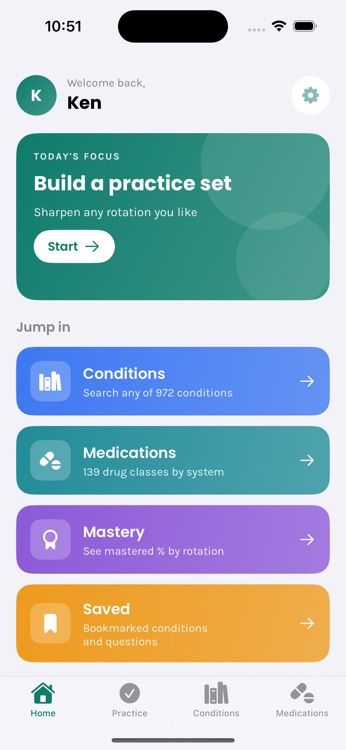
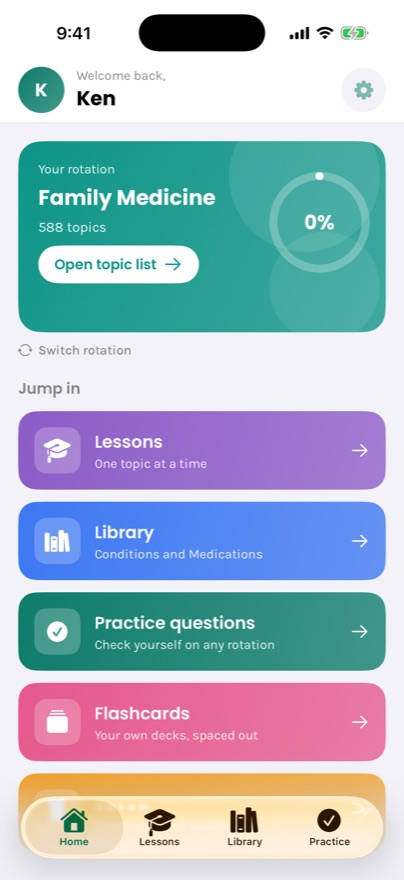
Add real app screenshots to the home page
Five screens captured from build 7 in the iPhone 17 Pro simulator, which is what
gives the clean 9:41 status bar with no carrier name, real battery level or
notification badges. Four are used: a lesson, the High Yield PANCE page, an
answered board-style vignette, and a blueprint topic list.

Two things were already in the repo and had never worked:

* assets/screens/ held three screenshots from 15 August that no page referenced.
  They predated the lessons, High Yield PANCE and flashcards entirely. Replaced.
* The .iphone CSS bezel lived in assets/home.css, which nothing links — index.html
  loads only s1.css. That is why both the frame and those screenshots had never
  appeared. The frame rules now live in s1.css; home.css is left as the dead
  leftover it was.

The bezel is drawn in CSS rather than baked into the images, so it stays crisp at
any size and a screenshot can be swapped without re-exporting a mockup. Given the
near-black page background, the bezel carries an outer hairline as well as the
inner one, or it disappears into the page.

Verified by measurement rather than by eye: four 272px columns, frames at
272x589, images loaded, section visible at opacity 1. The browser preview kept
returning blank captures, so this has not been visually confirmed at full size.

diff --git a/index.html b/index.html
@@ -18,7 +18,7 @@
 <meta property="og:image" content="https://seasononehealthcare.com/logo-mark.png">
 <meta name="twitter:card" content="summary_large_image">
 
-<link rel="stylesheet" href="/assets/s1.css?v=20260823c">
+<link rel="stylesheet" href="/assets/s1.css?v=20260828a">
 
 <script type="application/ld+json">
 {
@@ -107,6 +107,44 @@
           <p class="soon-note">// Join the beta above and we'll email you the moment it lands.</p>
         </div>
       </div>
+      </div>
+    </section>
+
+    <!-- Real screens, captured from the app. The `.iphone` frame is drawn in CSS
+         (assets/home.css) rather than baked into the images, so it stays crisp at any
+         size and a screenshot can be swapped without re-exporting a mockup. -->
+    <section class="shots" aria-labelledby="shots-h">
+      <h2 id="shots-h" class="shots-h">What it looks like</h2>
+      <p class="shots-lede">Screens from the app, not mockups.</p>
+      <div class="shots-row">
+        <figure class="shot">
+          <div class="iphone"><div class="screen">
+            <img src="/assets/screens/lesson.jpg" width="880" height="1913"
+                 alt="A lesson on atopic dermatitis, open on the overview page." loading="lazy" decoding="async">
+          </div></div>
+          <figcaption>A lesson, start to finish</figcaption>
+        </figure>
+        <figure class="shot">
+          <div class="iphone"><div class="screen">
+            <img src="/assets/screens/highyield.jpg" width="880" height="1913"
+                 alt="The High Yield PANCE page, listing what gets tested and the stem wording that signals it." loading="lazy" decoding="async">
+          </div></div>
+          <figcaption>What actually gets tested</figcaption>
+        </figure>
+        <figure class="shot">
+          <div class="iphone"><div class="screen">
+            <img src="/assets/screens/question.jpg" width="880" height="1913"
+                 alt="A board-style vignette with the correct answer selected." loading="lazy" decoding="async">
+          </div></div>
+          <figcaption>Board-style questions</figcaption>
+        </figure>
+        <figure class="shot">
+          <div class="iphone"><div class="screen">
+            <img src="/assets/screens/topics.jpg" width="880" height="1913"
+                 alt="The Family Medicine dermatology topic list." loading="lazy" decoding="async">
+          </div></div>
+          <figcaption>Organised by blueprint</figcaption>
+        </figure>
       </div>
     </section>
   </div>

diff --git a/assets/s1.css b/assets/s1.css
@@ -257,3 +257,41 @@ footer{flex:none;background:var(--void-2);padding:clamp(32px,4vw,52px) 0;margin-
   .btn{transition:transform .1s steps(2),box-shadow .1s steps(2)}
   nav.top a,.foot-links a{transition:color .13s,border-color .13s}
 }
+
+
+/* ── App screenshots ────────────────────────────────────────────────────────
+   The iPhone bezel is drawn in CSS rather than baked into the images, so it stays
+   crisp at any size and a screenshot can be swapped without re-exporting a mockup.
+   These rules were previously only in assets/home.css, which nothing links, which is
+   why the frame and the screenshots in assets/screens/ had never appeared. */
+.shots{padding:66px 0 8px}
+.shots-h{font-size:30px;line-height:1.15;letter-spacing:-.02em;margin:0 0 6px}
+.shots-lede{font-size:15px;opacity:.72;margin:0 0 34px}
+.shots-row{display:grid;grid-template-columns:repeat(4,1fr);gap:26px;align-items:start}
+.shots figure{margin:0;min-width:0}
+.shots figcaption{margin-top:14px;font-size:13.5px;opacity:.72;text-align:center}
+
+.iphone{position:relative;width:100%;aspect-ratio:9/19.5;border-radius:34px;padding:8px;
+  background:linear-gradient(155deg,#2B3336,#12181A 55%,#242B2E);
+  /* An outer hairline as well as the inner one: this site's background is near-black,
+     and without it a dark bezel on a dark page disappears and the screenshots read as
+     floating rectangles rather than as phones. */
+  box-shadow:0 0 0 2px rgba(255,255,255,.10) inset,
+             0 0 0 1px rgba(255,255,255,.14),
+             0 30px 54px -30px rgba(0,0,0,.85),
+             0 6px 18px -8px rgba(0,0,0,.5)}
+.iphone .screen{position:relative;width:100%;height:100%;border-radius:27px;overflow:hidden;background:#fff}
+.iphone .screen img{display:block;width:100%;height:100%;object-fit:cover;object-position:top center}
+.iphone::before{content:"";position:absolute;left:-3px;top:21%;width:3px;height:8%;
+  border-radius:3px 0 0 3px;background:#3A4245}
+.iphone::after{content:"";position:absolute;right:-3px;top:26%;width:3px;height:12%;
+  border-radius:0 3px 3px 0;background:#3A4245}
+
+@media(max-width:900px){.shots-row{grid-template-columns:repeat(2,1fr);gap:22px}}
+@media(max-width:520px){
+  .shots{padding:48px 0 4px}
+  .shots-row{gap:16px}
+  .iphone{border-radius:26px;padding:6px}
+  .iphone .screen{border-radius:21px}
+  .shots figcaption{font-size:12px;margin-top:10px}
+}
